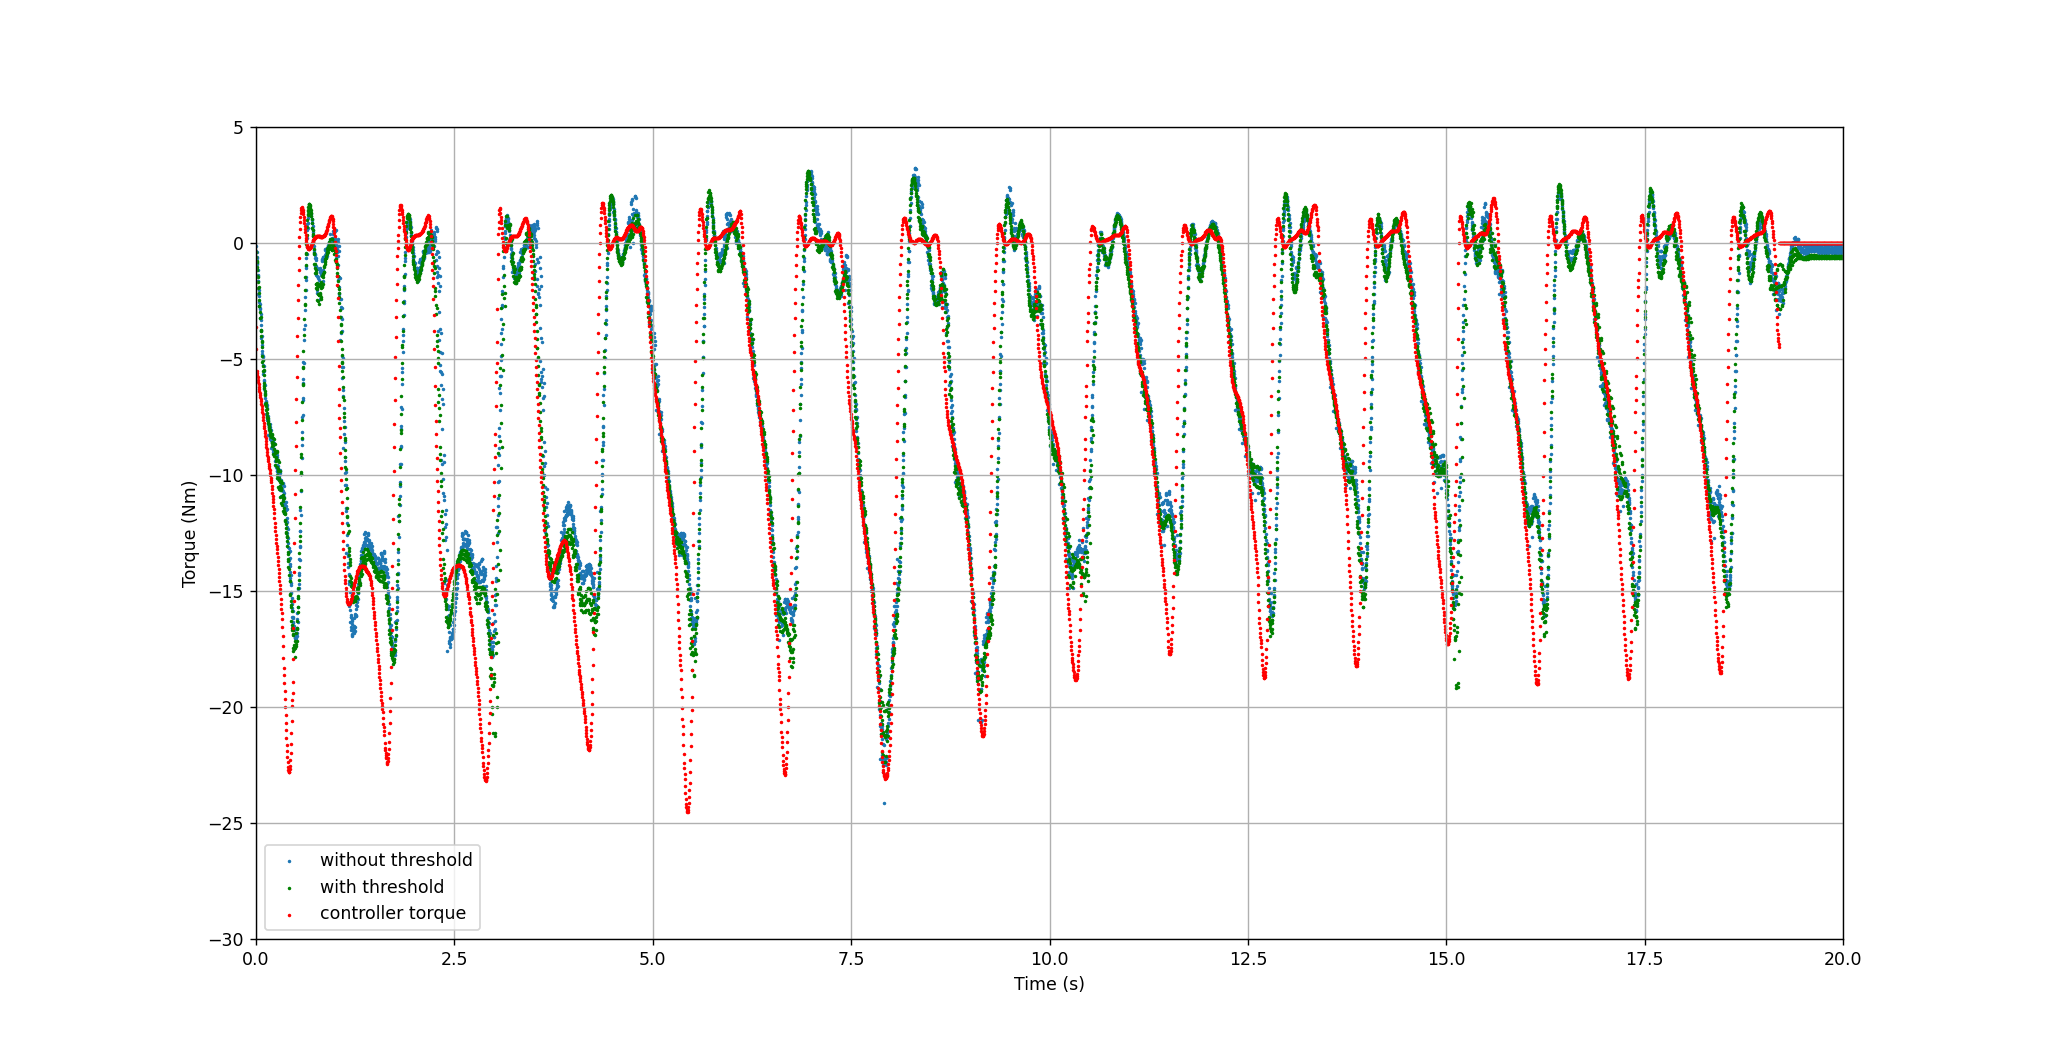
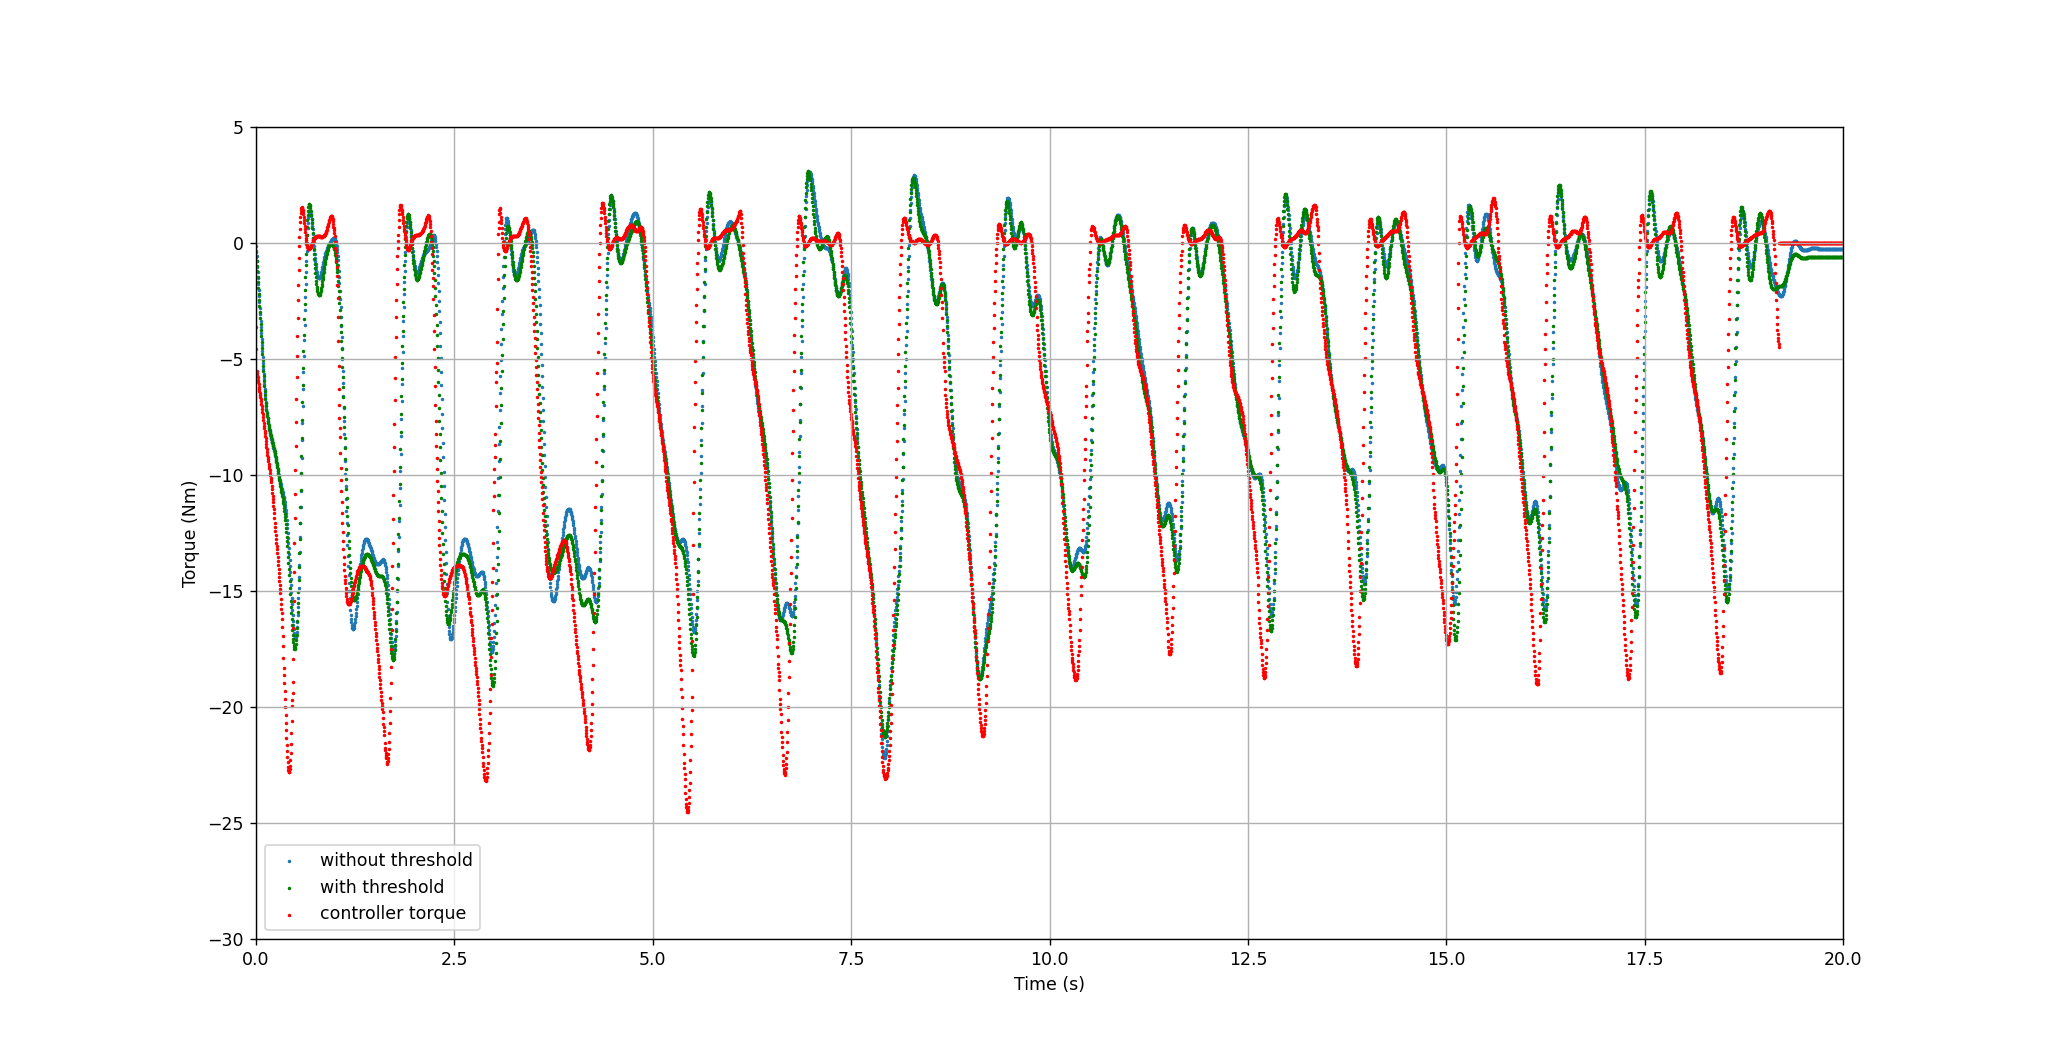
update

diff --git a/plotter.py b/plotter.py
@@ -164,6 +164,7 @@ def load_JIM_controller_avg(dir):
     csv_dataframes = []
     EXO_files = []
     csv_files = []
+    CAL_file = None
     
     # Find files
     files = os.listdir(dir)
@@ -176,25 +177,20 @@ def load_JIM_controller_avg(dir):
             csv_files.append(file)
     # Check calibration file
     if not CAL_file:
-        raise FileNotFoundError("No CAL file found in the directory.")
+        raise FileNotFoundError("No CAL file in the directory.")
     
     # Combine JIM data
     for EXO_file in EXO_files:
-        file_path_JIM_cal = os.path.join(dir, CAL_file)
-        file_path_JIM = os.path.join(dir, EXO_file)
-        JIM_time, JIM_angle, JIM_torque = load_mat(file_path_JIM, file_path_JIM_cal, adjust=False, lpf=True)
-
-        df = pd.DataFrame({
-            'Time': JIM_time,
-            'Angle': JIM_angle,
-            'Torque': JIM_torque
-        }).set_index('Time')
+        JIM_time, JIM_angle, JIM_torque = load_mat(os.path.join(dir, EXO_file), os.path.join(dir, CAL_file), adjust=False, lpf=True)
+        df = pd.DataFrame({'Time': JIM_time,
+                           'Angle': JIM_angle,
+                           'Torque': JIM_torque}).set_index('Time')
         EXO_dataframes.append(df)
+        print(df.head())
 
     # Combine controller data
     for csv_file in csv_files:
-        file_path_csv = os.path.join(dir, csv_file)
-        controller_data = pd.read_csv(file_path_csv)
+        controller_data = pd.read_csv(os.path.join(dir, csv_file))
 
         controller_data['time'] = pd.to_datetime(controller_data['time'], unit='s')
         controller_data.set_index('time', inplace=True)
@@ -202,35 +198,25 @@ def load_JIM_controller_avg(dir):
         controller_data_resampled = controller_data.resample('0.004S').mean().interpolate()
 
         _, _, start_index = proc.adjusted_data(controller_data_resampled.index, controller_data_resampled["desire_torque"], 1000, 1)    # Adjust the starting point
-        df = pd.DataFrame({
-            'Time': controller_data_resampled.index[start_index:]-controller_data_resampled.index[start_index],
-            'Desire Torque': controller_data_resampled["desire_torque"][start_index:],
-            'Coommanded Torque': controller_data_resampled["commanded_torque"][start_index:],
-            'Passive Torque': controller_data_resampled["passive_torque"][start_index:]
-        }).set_index('Time')
+        df = pd.DataFrame({'Time': controller_data_resampled.index[start_index:]-controller_data_resampled.index[start_index],
+                           'Desire Torque': controller_data_resampled["desire_torque"][start_index:],
+                           'Coommanded Torque': controller_data_resampled["commanded_torque"][start_index:],
+                           'Passive Torque': controller_data_resampled["passive_torque"][start_index:]}).set_index('Time')
         csv_dataframes.append(df)
 
-    # Concatenate dataframes horizontally
+    # Concatenate dataframes and calculate JIM data average
     EXO_combined_df = pd.concat(EXO_dataframes, axis=1)
+    EXO_avg_df = pd.DataFrame({'Angle': EXO_combined_df.filter(like='Angle').mean(axis=1),
+                               'Torque': EXO_combined_df.filter(like='Torque').mean(axis=1)}).reset_index()
+
+    # Concatenate dataframes and calculate controller data average
     csv_combined_df = pd.concat(csv_dataframes, axis=1)
-
-    # Calculate JIM data average
-    EXO_combined_df = pd.DataFrame({
-        'Angle': EXO_combined_df.filter(like='Angle').mean(axis=1),
-        'Torque': EXO_combined_df.filter(like='Torque').mean(axis=1)
-    })
-    EXO_combined_df.reset_index(inplace=True)
-
-    # Calculate Controller data average
-    csv_combined_df = pd.DataFrame({
-        'Desire Torque': csv_combined_df.filter(like='Desire Torque').mean(axis=1),
-        'Coommanded Torque': csv_combined_df.filter(like='Coommanded Torque').mean(axis=1),
-        'Passive Torque': csv_combined_df.filter(like='Passive Torque').mean(axis=1),
-    })
-    csv_combined_df.reset_index(inplace=True)
-    csv_combined_df['Time'] = (csv_combined_df['Time'] - csv_combined_df['Time'][0]) / pd.Timedelta('1s')   # Set the time back to float
-
-    return EXO_combined_df, csv_combined_df
+    csv_avg_df = pd.DataFrame({'Desire Torque': csv_combined_df.filter(like='Desire Torque').mean(axis=1),
+                               'Coommanded Torque': csv_combined_df.filter(like='Coommanded Torque').mean(axis=1),
+                               'Passive Torque': csv_combined_df.filter(like='Passive Torque').mean(axis=1)}).reset_index()
+    csv_avg_df['Time'] = (csv_avg_df['Time'] - csv_avg_df['Time'][0]) / pd.Timedelta('1s')   # Set the time back to float
+    print(EXO_avg_df)
+    return EXO_avg_df, csv_avg_df
 
 
 def plot_JIM_vs_controller(EXO_data, csv_data, PI=False):
@@ -255,21 +241,22 @@ def plot_JIM_vs_controller(EXO_data, csv_data, PI=False):
     plt.show()
 
 
-dir_path_t = f"I:\\My Drive\\Locomotor\\ExoBoot\\data\\traj_pos_lim_-0.5"
+
 dir_path = f"I:\\My Drive\\Locomotor\\ExoBoot\\data\\traj_controller_2"
 JIM_data_avg, controller_data_avg = load_JIM_controller_avg(dir_path)
-JIM_data_avg_t, controller_data_avg_t = load_JIM_controller_avg(dir_path_t)
+# dir_path_t = f"I:\\My Drive\\Locomotor\\ExoBoot\\data\\traj_pos_lim_-0.5"
+# JIM_data_avg_t, controller_data_avg_t = load_JIM_controller_avg(dir_path_t)
 
-plt.figure(figsize=(8, 6), dpi=125)
+# plt.figure(figsize=(8, 6), dpi=125)
 
-plt.scatter(JIM_data_avg['Time'], JIM_data_avg['Torque'], label='without threshold', s=1)
-plt.scatter(JIM_data_avg_t['Time'], JIM_data_avg_t['Torque'], label='with threshold', color='green', s=1)
-plt.scatter(controller_data_avg_t['Time'], controller_data_avg_t['Desire Torque'], label='controller torque', color='red', s=1)
+# plt.scatter(JIM_data_avg['Time'], JIM_data_avg['Torque'], label='without threshold', s=1)
+# plt.scatter(JIM_data_avg_t['Time'], JIM_data_avg_t['Torque'], label='with threshold', color='green', s=1)
+# plt.scatter(controller_data_avg_t['Time'], controller_data_avg_t['Desire Torque'], label='controller torque', color='red', s=1)
 
-plt.xlim(0, 20)
-plt.ylim(-30, 5)
-plt.xlabel('Time (s)')
-plt.ylabel('Torque (Nm)')
-plt.legend()
-plt.grid(True)
-plt.show()
+# plt.xlim(0, 20)
+# plt.ylim(-30, 5)
+# plt.xlabel('Time (s)')
+# plt.ylabel('Torque (Nm)')
+# plt.legend()
+# plt.grid(True)
+# plt.show()

diff --git a/EB51_controller_traj.py b/EB51_controller_traj.py
@@ -73,9 +73,9 @@ class Controller():
     def update_output_torque(self, des_torque, passive_torque):
         potential_torque = des_torque - passive_torque
         
-        # command_torque = potential_torque if potential_torque < -0.5 else -0.5
-        # command_torque = max(command_torque, -MAX_TORQUE)
-        command_torque = max(potential_torque, -MAX_TORQUE)
+        command_torque = potential_torque if potential_torque < -0.5 else -0.5  # Threshold
+        command_torque = max(command_torque, -MAX_TORQUE)
+        # command_torque = max(potential_torque, -MAX_TORQUE)
 
         return command_torque
     
@@ -120,8 +120,11 @@ class Controller():
             else:
                 if line <= len(self.traj_data) - 1:
                     des_torque = self.traj_data['commanded_torque'][line]
+                    # All-negative torque trajectory
+                    # if des_torque>0:
+                    #     des_torque = 0
                 else:
-                    des_torque = 0
+                    des_torque = 0  # Set to 0 after finish the trajectory
             
             passive_torque = proc.get_passive_torque(current_angle, angular_speed, self.speed_threshold)
             command_torque = self.update_output_torque(des_torque, passive_torque)
@@ -130,7 +133,7 @@ class Controller():
             qaxis_curr = self.dev.get_current_qaxis_amps()
             
             if i % 50 == 0:
-                print("des_torque = ", des_torque, "command_torque = ", command_torque, ", passive_torque = ", passive_torque, ", ankle angle = ", current_angle)
+                print("des_torque = ", des_torque, "commanded_torque = ", command_torque, ", passive_torque = ", passive_torque, ", ankle angle = ", current_angle)
             self.writer.writerow([t_curr, des_torque, passive_torque, command_torque, current_angle, angular_speed, qaxis_curr])
             line += 1
         print("Controller closed")
